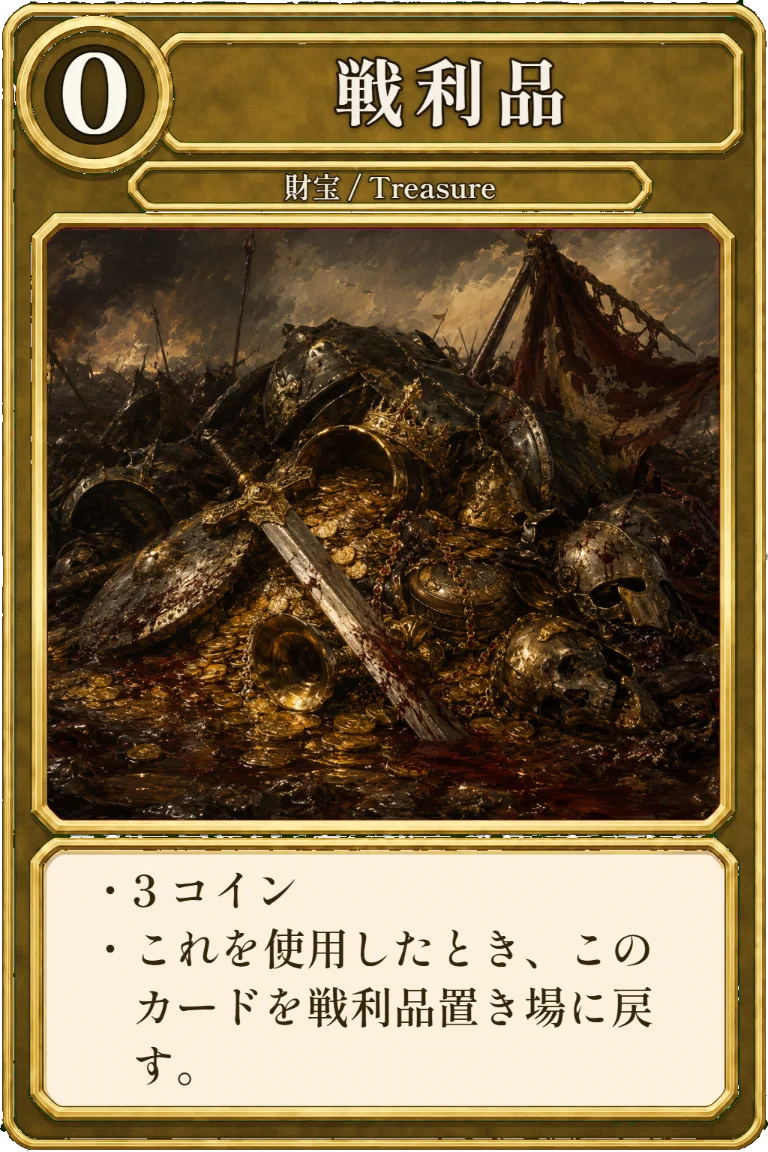
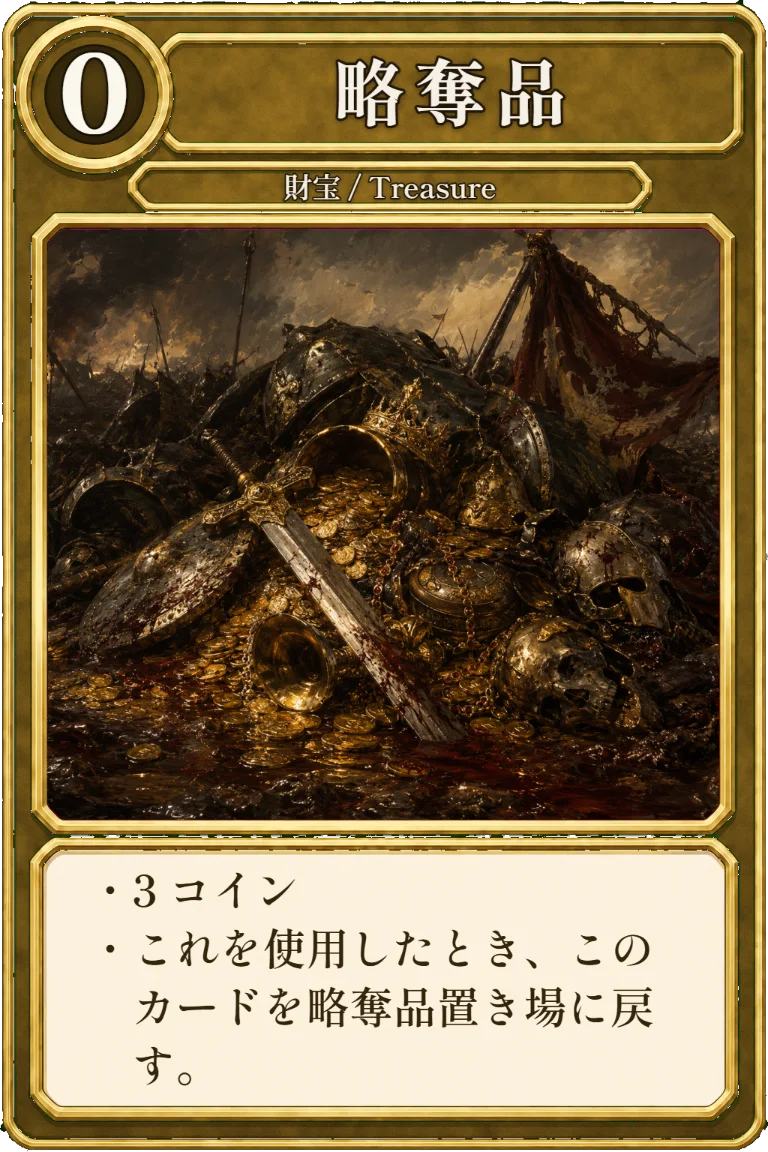
fix(darkages): spoils の日本語名を公式訳「略奪品」に直す（略奪の Loot＝「戦利品」と衝突するため）
PROGRESS §0-3 が「公式は『略奪品』だが…プロジェクト内一貫性を優先。**将来 Plunder/Loot を
入れる時に再考**」と明記して先送りしていた宿題。略奪(Plunder)の段階0研究で
**Loot の公式和名が「戦利品」**（日本語wiki `戦利品`＝種別「財宝-戦利品」）と確定したため、
同じ文字列が2つの別物を指す状態を避けて spoils を公式訳へ戻す。
ユーザー決定（2026-08-15）＝spoils を「略奪品」に改名する。

＝これは出荷済みの忠実性バグの修正でもある（公式は一貫して Spoils＝略奪品）。
mix-all で暗黒時代と略奪が同居すると「戦利品置き場」が2つ出るため、実害も出る予定だった。

- `js/cards.js`：`spoils` の name と、カード文中の「戦利品置き場」→「略奪品置き場」
  （spoils / marauder / bandit_camp / pillage の4枚）
- `js/engine.js`：プレイヤーに見えるログ文字列（使用・山へ戻す・獲得）
- `js/ui.js`：カード一覧の群見出し「非サプライ（略奪品・狂人・傭兵）」
- `js/cpu.js`・テスト・`docs/adding-cards.md`：spoils を指す記述を一括で追随
  （**現時点で「戦利品」は全部 spoils を指していた**＝Loot は未実装なので一括置換で安全）
- **webp 4枚を再生成**（spoils / marauder / bandit_camp / pillage。このPCのみ）＋ `sw.js` v69→v70

検証＝`npm test` 全40スイート緑（exit 0・整合性4765・不変条件12）／
`verify:e2e` 9/9（webp 505/0）。

Changed region(s): [[0.4375, 0.0312, 0.6562, 0.125], [0.4062, 0.8438, 0.5312, 0.9062]]

diff --git a/js/engine.js b/js/engine.js
@@ -23,7 +23,7 @@
   //   どちらも購入・汎用獲得・闇市場デッキの対象外＝NON_SUPPLY に入れて4系統から一括で除外する。
   const HEIRLOOMS = ['cursed_gold', 'goat', 'haunted_mirror', 'lucky_coin', 'magic_lamp', 'pasture', 'pouch'];
   const ZOMBIES = ['zombie_apprentice', 'zombie_mason', 'zombie_spy'];
-  const NON_SUPPLY = new Set([].concat(PRIZES, ['spoils', 'madman', 'mercenary'], TRAVELLER_GROWTH, ['horse'], NOCTURNE_NP, HEIRLOOMS, ZOMBIES)); // supply の数値キーだが「山」としては数えない/買えないもの（賞品＋暗黒時代の戦利品/狂人/傭兵＋冒険のトラベラー成長先＋移動動物園の馬＋夜想曲の精霊/願い/コウモリ/家宝/ゾンビ）
+  const NON_SUPPLY = new Set([].concat(PRIZES, ['spoils', 'madman', 'mercenary'], TRAVELLER_GROWTH, ['horse'], NOCTURNE_NP, HEIRLOOMS, ZOMBIES)); // supply の数値キーだが「山」としては数えない/買えないもの（賞品＋暗黒時代の略奪品/狂人/傭兵＋冒険のトラベラー成長先＋移動動物園の馬＋夜想曲の精霊/願い/コウモリ/家宝/ゾンビ）
   // 分割山（Split pile）：下段は上段が尽きるまで購入/獲得できない。正本は DOM.SPLIT_PILES（下段id→上段id）。
   const SPLIT_TOP = DOM.SPLIT_PILES || {};              // 下段id → 上段id（例 avanto→sauna）
   const SPLIT_BOTTOM = {}; Object.keys(SPLIT_TOP).forEach((b) => { SPLIT_BOTTOM[SPLIT_TOP[b]] = b; }); // 上段id → 下段id
@@ -118,7 +118,7 @@
   /* 戦闘計画(Battle Plan)＝**任意のサプライ山**を回せる（公式逐語：騎士・廃墟・城・サウナ/アヴァントも含む）。
      - 返すのは**山キー**（2段分割山は上段キーに正規化＝1山1エントリ）。
      - **サプライ山限定**（wiki 逐語：`As Battle Plan can only rotate Supply piles, it cannot rotate the Ferryman's pile`）
-       ＝賞品/戦利品/馬/トラベラー成長先/精霊 などの非サプライ山は返さない。
+       ＝賞品/略奪品/馬/トラベラー成長先/精霊 などの非サプライ山は返さない。
      - **普通の山も空の山も合法な選択肢**として返す（回しても何も起きないだけ＝公式FAQ
        `Many piles won't do anything meaningful if you do this`）。残枚数で絞らない。
      ※他5枚（触れ役/薬草集め/古地図/天幕/生徒）は自分の山を**名指し**するのでこの述語を使わない
@@ -620,7 +620,7 @@
   // 財宝の「使ったとき」効果だけを適用する（カードは動かさない）。
   //   1回目＝playTreasureCard（手札→場に移してから呼ぶ）。2回目＝冠/ティアラ/偽造通貨の再演
   //   （state.replay の 'treasure_replay' から runReplays が呼ぶ＝1回目の選択待ちが解決してから走る）。
-  //   自己移動する財宝（投資/戦利品/法貨/私掠船の廃棄）は removeOne ガードで2回目は自然に不発（lose track）。
+  //   自己移動する財宝（投資/略奪品/法貨/私掠船の廃棄）は removeOne ガードで2回目は自然に不発（lose track）。
   function applyTreasureEffect(state, pIndex, card) {
     const p = state.players[pIndex];
     const t = state.turn;
@@ -714,11 +714,11 @@
       if (p.deck.length === 0 && p.discard.length > 0) { reshuffleDeck(p); }
       if (p.deck.length > 0) state.pending = { type: 'crystal_ball', player: pIndex, card: p.deck[0] };
     }
-    // 暗黒時代：戦利品＝+$3（coin:3 で加算済み）。使ったら戦利品の山（非サプライ）へ戻す。
+    // 暗黒時代：略奪品＝+$3（coin:3 で加算済み）。使ったら略奪品の山（非サプライ）へ戻す。
     //   2回目のプレイ（冠/ティアラ/偽造通貨の再演）では既に山へ戻っている＝返却は不発（lose track・コインは入る）。
     if (card === 'spoils') {
-      if (removeOne(p.inPlay, 'spoils')) { state.supply.spoils = (state.supply.spoils || 0) + 1; log(state, `${p.name} は戦利品を使った（+$3）→山へ戻した。`); }
-      else log(state, `${p.name} は戦利品をもう一度使った（+$3）。`);
+      if (removeOne(p.inPlay, 'spoils')) { state.supply.spoils = (state.supply.spoils || 0) + 1; log(state, `${p.name} は略奪品を使った（+$3）→山へ戻した。`); }
+      else log(state, `${p.name} は略奪品をもう一度使った（+$3）。`);
     }
     // 冒険：掘出物＝+$2（coin:2 で加算済み）。プレイしたとき金貨1枚と銅貨1枚を獲得。
     if (card === 'treasure_trove') {
@@ -1005,7 +1005,7 @@
     // 廃墟(Ruins)山は supply の数値キーを持たず state.ruins（実カード配列）で管理する（createInitialState で生成）。
     //   ※'ruins' の山キーはカタログに無い＝supply に持つと CPU/UI の supply 走査が C()['ruins'] で落ちるため。
     //   騎士(knights)はカタログ有り・王国枠＝supply.knights（10枚・購入可）を kingdom.forEach で既に持つ。
-    //   非サプライ山：戦利品(山賊の宿営地/略奪者/略奪)=15固定、狂人(隠遁者)=10、傭兵(浮浪児)=10。
+    //   非サプライ山：略奪品(山賊の宿営地/略奪者/略奪)=15固定、狂人(隠遁者)=10、傭兵(浮浪児)=10。
     if (kingdom.some((k) => ['bandit_camp', 'marauder', 'pillage'].includes(k))) supply.spoils = 15;
     if (kingdom.includes('hermit')) supply.madman = 10;
     if (kingdom.includes('urchin')) supply.mercenary = 10;
@@ -1013,7 +1013,7 @@
     //   購入不可（canBuyCard）・3山終了に数えない（emptyPileCount）・獲得は「場から捨てる時の交換」のみ。
     if (kingdom.includes('page')) ['treasure_hunter', 'warrior', 'hero', 'champion'].forEach((id) => (supply[id] = 5));
     if (kingdom.includes('peasant')) ['soldier', 'fugitive', 'disciple', 'teacher'].forEach((id) => (supply[id] = 5));
-    // 夜想曲：非サプライ山（**枚数は人数によらない**＝賞品/戦利品と同じ）。正本＝docs/research/nocturne_rules.md §6-2。
+    // 夜想曲：非サプライ山（**枚数は人数によらない**＝賞品/略奪品と同じ）。正本＝docs/research/nocturne_rules.md §6-2。
     //   ウィル・オ・ウィスプは「幸運(Fate)が1枚でもあれば」置く（沼の恵みの獲得先）／悪魔祓いは精霊3山すべてを要求する。
     if (kingdom.some((k) => DOM.isType(k, 'fate')) || kingdom.includes('exorcist')) supply.will_o_wisp = 12;
     if (kingdom.some((k) => ['devils_workshop', 'tormentor', 'exorcist'].includes(k))) supply.imp = 13;
@@ -1796,7 +1796,7 @@
     });
   }
   // 「サプライから追放できる」候補（＝各山の一番上）。engine拒否・CPU候補・UIフィルタが同じ関数を見る。
-  //   非サプライ山（馬/賞品/戦利品/トラベラー成長先）は「サプライにある」ではない＝対象外。
+  //   非サプライ山（馬/賞品/略奪品/トラベラー成長先）は「サプライにある」ではない＝対象外。
   //   ロック中の分割山の下段も対象外（availableInSupply）。混合山は一番上の実カードだけを候補に足す。
   function exilableSupplyIds(state) {
     const out = [];
@@ -1999,7 +1999,7 @@
     trashCard(state, victim, trashed);
     log(state, `${v.name} は山札の上の「${C()[trashed].name}」を廃棄した。`);
     const ref = costOf(state, trashed);
-    // 非サプライ（賞品/トラベラー成長先/戦利品等）は贈与対象にしない（交換/専用機構でのみ得るカード）。
+    // 非サプライ（賞品/トラベラー成長先/略奪品等）は贈与対象にしない（交換/専用機構でのみ得るカード）。
     // コスト一致は3成分（銅貨$0 に 大君主$0+負債8 を押し付けられない＝公式）。
     if (anyGainable(state, (id) => costExact(state, id, ref.coin, ref.pot, ref.debt))) {
       state.pending = { type: 'swindler', stage: 'gain', player: source, source, victim, cost: ref.coin, pot: ref.pot, debt: ref.debt, queue };
@@ -3750,7 +3750,7 @@
   }
   function costLE(a, b) { return a.coin <= b.coin && a.pot <= b.pot && a.debt <= b.debt; }
   function costLT(a, b) { return costLE(a, b) && (a.coin < b.coin || a.pot < b.pot || a.debt < b.debt); }
-  // すべての「サプライから獲得する」効果の土台＝非サプライ（賞品/戦利品/狂人/傭兵/トラベラー成長先）・
+  // すべての「サプライから獲得する」効果の土台＝非サプライ（賞品/略奪品/狂人/傭兵/トラベラー成長先）・
   //   ロック中の分割山下段・在庫切れ・カタログ非在 を弾く。
   function gainableBase(state, id) {
     return !!C()[id] && !NON_SUPPLY.has(id) && !splitLocked(state, id) && (state.supply[id] || 0) > 0;
@@ -4929,9 +4929,9 @@
           ? { type: 'altar', stage: 'trash', player: pi }
           : (anyGainable(state, (id) => costUpTo(state, id, 5)) ? { type: 'altar', stage: 'gain', player: pi } : null);
         break;
-      case 'bandit_camp': // +1カード +2アクション、戦利品を1枚獲得（非サプライ）
+      case 'bandit_camp': // +1カード +2アクション、略奪品を1枚獲得（非サプライ）
         draw(state, pi, 1); addActions(t, 2);
-        if (gain(state, pi, 'spoils', 'discard')) log(state, `${p.name} は山賊の宿営地で戦利品を獲得した。`);
+        if (gain(state, pi, 'spoils', 'discard')) log(state, `${p.name} は山賊の宿営地で略奪品を獲得した。`);
         break;
       case 'hunting_grounds': // +4カード（on-trashは公領or屋敷3＝triggerOnTrash）
         draw(state, pi, 4);
@@ -4968,8 +4968,8 @@
       case 'procession': // 手札の非持続アクションを2回使う→廃棄→ちょうど+$1高いアクションを獲得（使わなくてよい）
         if (p.hand.some((c) => DOM.isType(c, 'action') && !DOM.isType(c, 'duration') && canPlayHandCard(state, pi, c))) state.pending = { type: 'procession', player: pi };
         break;
-      case 'marauder': { // 戦利品を獲得（自分）＋各相手が廃墟を獲得（アタック）
-        if (gain(state, pi, 'spoils', 'discard')) log(state, `${p.name} は略奪者で戦利品を獲得した。`);
+      case 'marauder': { // 略奪品を獲得（自分）＋各相手が廃墟を獲得（アタック）
+        if (gain(state, pi, 'spoils', 'discard')) log(state, `${p.name} は略奪者で略奪品を獲得した。`);
         const q = []; for (let k = 1; k < state.players.length; k++) q.push((pi + k) % state.players.length);
         marauderEnterVictim(state, pi, q);
         break;
@@ -4980,11 +4980,11 @@
         cultistEnterVictim(state, pi, q);
         break;
       }
-      case 'pillage': { // これを廃棄→戦利品2枚＋手札5枚以上の各相手が手札公開→使用者が1枚捨てさせる
+      case 'pillage': { // これを廃棄→略奪品2枚＋手札5枚以上の各相手が手札公開→使用者が1枚捨てさせる
         if (!takeSelf(state, pi, 'pillage')) break; // 場に無い（玉座2回目/命令で動かさずに使用）＝If you did が偽
         trashCard(state, pi, 'pillage');
         let g = 0; for (let i = 0; i < 2; i++) if (gain(state, pi, 'spoils', 'discard')) g++;
-        if (g) log(state, `${p.name} は略奪で戦利品 ${g}枚 を獲得した。`);
+        if (g) log(state, `${p.name} は略奪で略奪品 ${g}枚 を獲得した。`);
         const q = []; for (let k = 1; k < state.players.length; k++) q.push((pi + k) % state.players.length);
         pillageEnterVictim(state, pi, q);
         break;
@@ -6853,7 +6853,7 @@
   }
   // 帝国：あるカードが「空になったサプライ山」に由来するか（塔の得点用）。
   function isFromEmptySupplyPile(state, cardId) {
-    if (NON_SUPPLY.has(cardId)) return false; // 賞品/成長先/戦利品/狂人/傭兵 は非サプライ
+    if (NON_SUPPLY.has(cardId)) return false; // 賞品/成長先/略奪品/狂人/傭兵 は非サプライ
     // 混合山（廃墟/騎士/城）の中身は個別の supply キーを持たない＝集約キーで空判定
     if ((DOM.POOLS.ruins || []).indexOf(cardId) >= 0) return Array.isArray(state.ruins) && state.ruins.length === 0;
     if ((DOM.POOLS.knights || []).indexOf(cardId) >= 0) return (state.supply.knights || 0) <= 0;
@@ -9750,7 +9750,7 @@
   /* 植民（Populate）＝獲得元になる「アクションのサプライ山」の一覧（山キー）。
      - 山の種別で判定する（分割山は**上段カード**の種別＝上段が尽きていても下段を獲得する）。
      - 混合山：廃墟/騎士はアクションの山（一番上の1枚を獲得）／城は勝利点の山＝対象外。
-     - 非サプライ山（馬/賞品/戦利品/トラベラー成長先）は対象外。空の山は対象外。 */
+     - 非サプライ山（馬/賞品/略奪品/トラベラー成長先）は対象外。空の山は対象外。 */
   function populatePiles(state) {
     const out = [];
     Object.keys(state.supply).forEach((id) => {
@@ -10277,7 +10277,7 @@
       }
       if (r.label === 'counterfeit_trash') {
         // 暗黒時代：偽造通貨＝2回のプレイが終わった後、その財宝を場から廃棄する。
-        //   対象が自己移動していれば（戦利品が山へ戻る等）廃棄は不発（lose track）。
+        //   対象が自己移動していれば（略奪品が山へ戻る等）廃棄は不発（lose track）。
         const p = state.players[r.player];
         if (removeOne(p.inPlay, r.card)) { trashCard(state, r.player, r.card); log(state, `${p.name} は偽造通貨で「${C()[r.card].name}」を廃棄した。`); }
         continue;
@@ -11844,7 +11844,7 @@
         const pd = state.pending;
         if (!pd || pd.type !== 'lurker' || pd.stage !== 'trash') return state;
         const card = action.card;
-        // 非サプライ（賞品/トラベラー成長先/戦利品）とロック中の分割山下段は「サプライの山」ではない＝対象外。
+        // 非サプライ（賞品/トラベラー成長先/略奪品）とロック中の分割山下段は「サプライの山」ではない＝対象外。
         if (!gainableBase(state, card) || !isTypeSupply(state, card, 'action')) return state;
         const trashed = trashFromSupplyPile(state, pd.player, card); // 混合山は一番上の実カード
         if (!trashed) return state;
@@ -12688,7 +12688,7 @@
           //   state.replay に順に積む（行進の procession2/procession_finish と同じ形）。
           //   これで1回目/2回目が立てる選択待ちが解決してから廃棄が走る。
           log(state, `${p.name} は偽造通貨で「${C()[card].name}」を2回使う。`);
-          playTreasureCard(state, pd.player, card); // 1回目（移動＋効果。戦利品は山へ戻る）
+          playTreasureCard(state, pd.player, card); // 1回目（移動＋効果。略奪品は山へ戻る）
           state.replay = state.replay || [];
           state.replay.push({ player: pd.player, card, label: 'treasure_replay' });  // 2回目（効果のみ）
           state.replay.push({ player: pd.player, card, label: 'counterfeit_trash' }); // 2回のプレイ後に廃棄
@@ -13639,7 +13639,7 @@
         const card = action.card; // null = 公開しない
         if (card != null && p.hand.indexOf(card) >= 0 && isTreasureFor(state, card)) {
           reveal(state, pd.player, [card], '造幣所：財宝を公開');
-          // 非サプライ（戦利品/宝冠 等）のコピーは造幣所では獲得できない（サプライに山が無い＝gainableBase）。
+          // 非サプライ（略奪品/宝冠 等）のコピーは造幣所では獲得できない（サプライに山が無い＝gainableBase）。
           if (gainableBase(state, card)) { gain(state, pd.player, card, 'discard'); log(state, `${p.name} は造幣所で「${C()[card].name}」を獲得した。`); }
         }
         state.pending = null;
@@ -13930,8 +13930,8 @@
             removeOne(player.hand, 'province'); player.discard.push('province');
             reveal(state, pd.player, ['province'], '馬上槍試合で属州を公開');
             log(state, `${player.name} は属州を公開・捨てた（馬上槍試合）。`);
-            // 賞品は PRIZES（5種）だけ＝NON_SUPPLY（戦利品/狂人/傭兵/トラベラー成長先も含む）で数えてはいけない。
-            //   mix で戦利品等が同居すると「賞品を獲得」の pending が開いたまま閉じない（CPU無限ループ／人間が詰む）。
+            // 賞品は PRIZES（5種）だけ＝NON_SUPPLY（略奪品/狂人/傭兵/トラベラー成長先も含む）で数えてはいけない。
+            //   mix で略奪品等が同居すると「賞品を獲得」の pending が開いたまま閉じない（CPU無限ループ／人間が詰む）。
             if (anyGainable(state, (id) => PRIZE_SET.has(id) || id === 'duchy')) {
               state.pending = { type: 'tournament', stage: 'prize', player: pd.player, source: pd.source };
             } else {

diff --git a/js/cards.js b/js/cards.js
@@ -491,7 +491,7 @@
     death_cart: { id: 'death_cart', name: '死の荷車', cost: 4, types: ['action', 'looter'],
                  text: 'これか手札のアクションカード1枚を廃棄してもよい。廃棄したなら +5 コイン。\n————\nこれを獲得したとき、廃墟2枚を獲得する。' },
     marauder: { id: 'marauder', name: '略奪者', cost: 4, types: ['action', 'attack', 'looter'],
-                 text: '戦利品置き場から戦利品1枚を獲得する。\n他のプレイヤーは各自、廃墟1枚を獲得する。' },
+                 text: '略奪品置き場から略奪品1枚を獲得する。\n他のプレイヤーは各自、廃墟1枚を獲得する。' },
     feodum: { id: 'feodum', name: '封土', cost: 4, types: ['victory'],
                  text: '（勝利点）\n所持している銀貨3枚につき 1 勝利点（端数切り捨て）。\nこれを廃棄したとき、銀貨3枚を獲得する。' },
 
@@ -527,7 +527,7 @@
     junk_dealer: { id: 'junk_dealer', name: '屑屋', cost: 5, types: ['action'],
                  text: '+1 カード\n+1 アクション\n+1 コイン\n手札のカード1枚を廃棄する。' },
     bandit_camp: { id: 'bandit_camp', name: '山賊の宿営地', cost: 5, types: ['action'],
-                 text: '+1 カード\n+2 アクション\n戦利品置き場から戦利品1枚を獲得する。' },
+                 text: '+1 カード\n+2 アクション\n略奪品置き場から略奪品1枚を獲得する。' },
     rebuild: { id: 'rebuild', name: '建て直し', cost: 5, types: ['action'],
                  text: '+1 アクション\nカード名を1つ指定する。指定したカード以外の勝利点カードが出るまで、自分の山札の上からカードを公開する。\n公開した他のカードを捨て札にし、その勝利点カードを廃棄する。\nそのコストより $3 多いコストまでの勝利点カード1枚を獲得する。' },
     catacombs: { id: 'catacombs', name: '地下墓所', cost: 5, types: ['action'],
@@ -543,7 +543,7 @@
     rogue: { id: 'rogue', name: '盗賊', cost: 5, types: ['action', 'attack'],
                  text: '+2 コイン\n廃棄置き場にコスト3～6のカードがあれば、その中から1枚を獲得する。\n無ければ、他のプレイヤーは各自、自分の山札の上から2枚を公開し、その中のコスト3～6のカード1枚を廃棄し、残りを捨て札にする。' },
     pillage: { id: 'pillage', name: '略奪', cost: 5, types: ['action', 'attack'],
-                 text: 'これを廃棄する。そうしたら、戦利品置き場から戦利品2枚を獲得し、手札が5枚以上の他のプレイヤーは各自、手札を公開し、あなたが選んだカード1枚を捨て札にする。' },
+                 text: 'これを廃棄する。そうしたら、略奪品置き場から略奪品2枚を獲得し、手札が5枚以上の他のプレイヤーは各自、手札を公開し、あなたが選んだカード1枚を捨て札にする。' },
     cultist: { id: 'cultist', name: '狂信者', cost: 5, types: ['action', 'attack', 'looter'],
                  text: '+2 カード\n他のプレイヤーは各自、廃墟1枚を獲得する。\n手札の狂信者1枚を使用してよい。\nこれを廃棄したとき、+3 カード。' },
     counterfeit: { id: 'counterfeit', name: '偽造通貨', cost: 5, types: ['treasure'], coin: 1,
@@ -597,9 +597,9 @@
     overgrown_estate: { id: 'overgrown_estate', name: '草茂る屋敷', cost: 1, types: ['victory', 'shelter'],
                  text: '0 勝利点\n————\nこのカードを廃棄したとき、+1 カードを引く。' },
 
-    // ===== 非サプライ（戦利品/狂人/傭兵・段階1）=====
-    spoils: { id: 'spoils', name: '戦利品', cost: 0, types: ['treasure'], coin: 3,
-                 text: '3 コイン\nこれを使用したとき、このカードを戦利品置き場に戻す。' },
+    // ===== 非サプライ（略奪品/狂人/傭兵・段階1）=====
+    spoils: { id: 'spoils', name: '略奪品', cost: 0, types: ['treasure'], coin: 3,
+                 text: '3 コイン\nこれを使用したとき、このカードを略奪品置き場に戻す。' },
     madman: { id: 'madman', name: '狂人', cost: 0, types: ['action'],
                  text: '+2 アクション\nこのカードを狂人置き場に戻す。そうしたら、あなたの手札1枚につき +1 カード。' },
     mercenary: { id: 'mercenary', name: '傭兵', cost: 0, types: ['action', 'attack'],
@@ -901,7 +901,7 @@
         4. 追跡者(tracker)＝2022年の**機能**エラッタ（「これが場にある間」→「このターン」）を反映。
         5. 2021年印刷で削除された "from its pile"（悪魔の工房／迫害者／レプラコーン／沼の恵み 等）は落とす＝機能差ゼロ。
        家宝を持つ王国カードは末尾に「（家宝：X）」を付ける（実カードでは枠外の帯なので区切り線は入れない）。
-       非サプライ札の "(This is not in the Supply.)" は既存カタログ（馬/戦利品/狂人/賞品）と同じく書かない。 */
+       非サプライ札の "(This is not in the Supply.)" は既存カタログ（馬/略奪品/狂人/賞品）と同じく書かない。 */
     bard:            { id: 'bard', name: '詩人', cost: 4, types: ['action', 'fate'],
                  text: '+2 コイン\n祝福を1つ受ける。' },
     blessed_village: { id: 'blessed_village', name: '恵みの村', cost: 4, types: ['action', 'fate'],
@@ -1251,7 +1251,7 @@
   DOM.POOLS.knights = ['dame_anna', 'dame_josephine', 'dame_molly', 'dame_natalie', 'dame_sylvia', 'sir_bailey', 'sir_destry', 'sir_martin', 'sir_michael', 'sir_vander'];   // 騎士の混合山の中身（非サプライ）
   DOM.POOLS.ruins = ['abandoned_mine', 'ruined_library', 'ruined_market', 'ruined_village', 'survivors'];       // 廃墟（特殊供給）
   DOM.POOLS.shelters = ['hovel', 'necropolis', 'overgrown_estate']; // 避難所（開始デッキ置換）
-  DOM.POOLS.darkages_np = ['spoils', 'madman', 'mercenary']; // 戦利品/狂人/傭兵（非サプライ）
+  DOM.POOLS.darkages_np = ['spoils', 'madman', 'mercenary']; // 略奪品/狂人/傭兵（非サプライ）
   // 冒険（Adventures）＝王国30種（抽選母集団。「冒険セット」固定10種と「冒険から」ランダムが参照。page/peasant はサプライ）。
   DOM.POOLS.adventures = ['coin_of_the_realm', 'page', 'peasant', 'ratcatcher', 'raze', 'amulet', 'caravan_guard', 'dungeon', 'gear', 'guide', 'duplicate', 'magpie', 'messenger', 'miser', 'port', 'ranger', 'transmogrify', 'artificer', 'bridge_troll', 'distant_lands', 'giant', 'haunted_woods', 'lost_city', 'relic', 'royal_carriage', 'storyteller', 'swamp_hag', 'treasure_trove', 'wine_merchant', 'hireling'];
   // 冒険：トラベラーの成長先8種＝非サプライ（page/peasant の交換でのみ得る・各5枚）。賞品(prizes)と同型で

diff --git a/js/cpu.js b/js/cpu.js
@@ -113,7 +113,7 @@
   // 収穫祭：賞品(Prize)は馬上槍試合でのみ獲得する非サプライ札＝汎用の獲得効果(bestGain/bestGainExact)は
   // 絶対に賞品を選ばない（豊穣の角等で$0賞品を不正獲得しない／賞品を拒否する reducer と噛み合って無限ループしない）。
   const PRIZE_SET = new Set(['bag_of_gold', 'diadem', 'followers', 'princess', 'trusty_steed']);
-  // 暗黒時代：戦利品/狂人/傭兵も非サプライ＝汎用獲得(bestGain等)や獲得系pendingから除外する
+  // 暗黒時代：略奪品/狂人/傭兵も非サプライ＝汎用獲得(bestGain等)や獲得系pendingから除外する
   //（engine の NON_SUPPLY 拒否と噛み合い、提案し続けて無限ループするのを防ぐ）。
   // 冒険：トラベラーの成長先8種も非サプライ（page/peasant の交換でのみ得る）＝汎用獲得や獲得系pendingから除外。
   // 移動動物園：馬（horse）も非サプライ＝「馬を獲得する」効果でのみ得る（購入も汎用獲得もできない）。
@@ -313,7 +313,7 @@
     // 暗黒時代：非ターミナル（+アクション付き）
     if (has('fortress')) return 'fortress';               // +1カード+2アクション（廃棄で手札に戻る）
     if (has('necropolis')) return 'necropolis';           // +2アクション（避難所）
-    if (has('bandit_camp')) return 'bandit_camp';         // +1カード+2アクション＋戦利品
+    if (has('bandit_camp')) return 'bandit_camp';         // +1カード+2アクション＋略奪品
     if (has('junk_dealer')) return 'junk_dealer';         // +1カード+1アクション+$1＋圧縮
     if (has('mystic')) return 'mystic';                   // +1アクション+$2＋当てれば手札へ
     if (has('vagrant')) return 'vagrant';                 // +1カード+1アクション
@@ -499,8 +499,8 @@
     if (has('priest')) return 'priest';                   // +2コイン＋以後の廃棄で+2コイン（圧縮と併せて強い）
     // 暗黒時代：ターミナル（アタック＞ドロー＞trash-to-gain＞その他）
     if (has('cultist')) return 'cultist';                   // +2カード＋廃墟配布＋連鎖（強力）
-    if (has('marauder')) return 'marauder';                 // 戦利品＋廃墟配布
-    if (has('pillage')) return 'pillage';                   // 廃棄→戦利品2枚＋手札を捨てさせる
+    if (has('marauder')) return 'marauder';                 // 略奪品＋廃墟配布
+    if (has('pillage')) return 'pillage';                   // 廃棄→略奪品2枚＋手札を捨てさせる
     if (has('rogue')) return 'rogue';                       // +$2＋廃棄置き場回収 or 相手の$3-6廃棄
     // 騎士（ターミナル種）＝手札にあれば使う（混合山アタック）
     for (const kn of ['sir_destry', 'dame_sylvia', 'sir_martin', 'dame_natalie', 'sir_michael', 'dame_anna', 'dame_josephine', 'sir_vander']) { if (has(kn)) return kn; }
@@ -736,7 +736,7 @@
     if (after('province') <= 0) return true;
     // 繁栄：植民地を使うゲームは植民地が尽きても終了する（engine の isGameOver と同じ条件を見る）。
     if (state.supply.colony != null && after('colony') <= 0) return true;
-    /* 3山終了は **engine の emptyPileCount が正本**（非サプライ＝賞品/戦利品/成長先を数えない・
+    /* 3山終了は **engine の emptyPileCount が正本**（非サプライ＝賞品/略奪品/成長先を数えない・
        分割山は上下で1山・廃墟の混合山を state.ruins で数える）。ここで素朴に supply のキーを数えると
        非サプライ山や分割山下段まで「空」に数えてしまい、engine はまだ続くのに CPU だけ「買うと終わる」と
        誤判定して終盤ずっと買い控える（敵対レビューで実測）。 */

diff --git a/js/ui.js b/js/ui.js
@@ -148,7 +148,7 @@
   function effCost(state, id) { return (state && E() && E().cardCost) ? E().cardCost(state, id) : DOM.CARDS[id].cost; }
   /* ---------- mix-all 硬化：獲得候補の述語は **engine の正本** を見る ----------
      engine が拒否する札をモーダルのチップに出すと人間が詰む（選んでも state が変わらない）。
-     コスト比較は coin/potion/debt の成分別＋非サプライ（賞品/戦利品/成長先）とロック中の分割山下段を除外。
+     コスト比較は coin/potion/debt の成分別＋非サプライ（賞品/略奪品/成長先）とロック中の分割山下段を除外。
      spec = { pot, debt }（省略時0）＝廃棄/購入した札のポーション・負債成分を引き継ぐときに渡す（pending に焼き込み済み）。 */
   const canBase = (state, id) => !E() || !E().gainableBase || E().gainableBase(state, id);
   /* 「サプライから獲得/廃棄するカードの種別」＝混合山（廃墟/騎士/城/同盟の分割山）は**一番上の実カード**で判定。
@@ -920,7 +920,7 @@
     addC('騎士（暗黒時代）', P.knights ? byCost(P.knights) : null);
     addC('廃墟（暗黒時代）', P.ruins ? byCost(P.ruins) : null);
     addC('避難所（暗黒時代）', P.shelters ? byCost(P.shelters) : null);
-    addC('非サプライ（戦利品・狂人・傭兵）', P.darkages_np ? byCost(P.darkages_np) : null);
+    addC('非サプライ（略奪品・狂人・傭兵）', P.darkages_np ? byCost(P.darkages_np) : null);
     addC('王国カード（冒険）', P.adventures ? byCost(P.adventures) : null);
     addC('トラベラー成長先（冒険・非サプライ）', P.travellers ? byCost(P.travellers) : null);
     addC('王国カード（帝国）', P.empires ? byCost(P.empires) : null);
@@ -1299,7 +1299,7 @@
       ? h('div', { class: 'supply-section' }, h('div', { class: 'sup-title' }, '廃墟の山（獲得専用）'),
           h('div', { class: 'supply-grid small' }, ruinsPileEl(state)))
       : null;
-    // 非サプライの数値キー山（購入不可＝交換/専用獲得のみ）：冒険のトラベラー成長先・収穫祭の賞品・暗黒時代の戦利品/狂人/傭兵。
+    // 非サプライの数値キー山（購入不可＝交換/専用獲得のみ）：冒険のトラベラー成長先・収穫祭の賞品・暗黒時代の略奪品/狂人/傭兵。
     //   王国枠に無く供給されている（state.supply に在る）ものを表示して、残枚数を可視化する。
     //   夜想曲の精霊3種／願い／コウモリ、移動動物園の馬も同じ扱い（残枚数が見えないと戦略が立たない）。
     const nonSupplyIds = [].concat((DOM.POOLS && DOM.POOLS.travellers) || [], (DOM.POOLS && DOM.POOLS.prizes) || [],
@@ -4334,7 +4334,7 @@
     const extra = Object.keys(state.supply).filter((id) => DOM.CARDS[id] && order.indexOf(id) < 0);
     const all = order.concat(extra);
     // 安全網：呼び出し側の filter に書き漏れがあっても、**engine が獲得を拒否する山はチップに出さない**
-    //   （非サプライ＝賞品/戦利品/成長先・ロック中の分割山下段・在庫切れ）＝人間が詰む選択肢を1か所で吸収する。
+    //   （非サプライ＝賞品/略奪品/成長先・ロック中の分割山下段・在庫切れ）＝人間が詰む選択肢を1か所で吸収する。
     //   allowEmpty＝「山が空でもよい」用途（教師の山トークン置き先＝公式は空の山にも置ける）。
     const elig = all.filter((id) => filter(id) &&
       (allowEmpty ? (state.supply[id] != null) : ((state.supply[id] || 0) > 0 && canBase(state, id))));

diff --git a/test/invariants.test.js b/test/invariants.test.js
@@ -128,7 +128,7 @@ const ADVERSARIAL = [
   ['crown', 'charm', 'capital', 'plunder', 'encampment', 'fortune', 'gladiator', 'castles', 'overlord', 'village'], // 帝国：冠の「財宝を2回使う」×選択待ちを立てる財宝(御守り)・+購入/VPを持つ財宝(元手/大金/鹵獲品)＋負債＋分割山＋城の混合山
   ['crown', 'overlord', 'throne_room', 'kings_court', 'village', 'market', 'smithy', 'moat', 'militia', 'workshop'], // 帝国：命令(大君主)の再演は選び直さない×玉座/王の宮廷/冠のネスト
   ['tiara', 'crystal_ball', 'anvil', 'investment', 'charlatan', 'bank', 'collection', 'monument', 'village', 'market'], // 繁栄：ティアラの2回目が pending 財宝(水晶玉/金床/投資/ペテン師)の選択・アタックを取りこぼさない
-  ['counterfeit', 'bandit_camp', 'marauder', 'band_of_misfits', 'procession', 'village', 'market', 'smithy', 'moat', 'militia'], // 暗黒時代：偽造通貨の2回プレイ→廃棄（戦利品の自己移動＝lose track）＋命令(はみだし者)×行進の再演
+  ['counterfeit', 'bandit_camp', 'marauder', 'band_of_misfits', 'procession', 'village', 'market', 'smithy', 'moat', 'militia'], // 暗黒時代：偽造通貨の2回プレイ→廃棄（略奪品の自己移動＝lose track）＋命令(はみだし者)×行進の再演
   // E8：命令（大君主/はみだし者）× 自己移動札（祝宴/鉱山の村/宝の地図/島/倒壊/陣地/農家の市場）＝自己移動は失敗し命令カードも動かない
   ['overlord', 'band_of_misfits', 'feast', 'mining_village', 'treasure_map', 'island', 'raze', 'encampment', 'farmers_market', 'throne_room'],
   // E8：命令（船長/王子）× 自己移動札＋Reserve（酒場マットへの自己移動）＋玉座/王の宮廷のネスト
@@ -460,7 +460,7 @@ console.log('=== カード保存則: mix-all（拡張を自由に混ぜる・分
   }
   // 3) 「汎用獲得札 × 危険な山」を強制的に同居させた王国（fuzz の抽選待ちにしない）。
   const FORCED = [
-    // 工房/鉄工所/職人/祝宴（≤$N獲得）× 賞品(馬上槍試合)・戦利品(山賊の宿営地)・ポーション費用(ブドウ園)・負債(技術者)
+    // 工房/鉄工所/職人/祝宴（≤$N獲得）× 賞品(馬上槍試合)・略奪品(山賊の宿営地)・ポーション費用(ブドウ園)・負債(技術者)
     ['workshop', 'ironworks', 'artisan', 'feast', 'tournament', 'bandit_camp', 'vineyard', 'potion', 'engineer', 'village'],
     // 改良/リメイク/溶鉱炉/開発/農地（ちょうど$N）× ポーション費用・負債・分割山下段・混合山
     ['upgrade', 'remake', 'forge', 'develop', 'farmland', 'vineyard', 'potion', 'overlord', 'sauna', 'avanto'],

diff --git a/test/empires.test.js b/test/empires.test.js
@@ -1056,7 +1056,7 @@ const K8 = (extra) => [extra, 'village', 'smithy', 'market', 'workshop', 'moat',
   s = reduce(s, { type: 'PLAY_ACTION', card: 'overlord' });
   s = reduce(s, { type: 'OVERLORD_PLAY', card: 'pillage' });
   ok(count(s.trash, 'pillage') === 0 && count(s.trash, 'overlord') === 0, '大君主×略奪：どちらも廃棄されない');
-  ok(count(s.players[0].discard, 'spoils') === 0 && !s.pending, '大君主×略奪：戦利品もアタックも起きない（If you did が偽）');
+  ok(count(s.players[0].discard, 'spoils') === 0 && !s.pending, '大君主×略奪：略奪品もアタックも起きない（If you did が偽）');
   ok(tdiff(t0, tally(s)).length === 0, '保存則（大君主×略奪）');
 }
 { // 倒壊：「これ」は選べない・手札からのみ廃棄。場に本物の倒壊があっても誤爆しない

diff --git a/sw.js b/sw.js
@@ -7,7 +7,7 @@
    - クロスオリジン（Google Fonts / WebSocket）は触らない。
    バージョンを上げると activate で旧キャッシュを全部捨てる。
    ============================================================ */
-const VERSION = 'v69';
+const VERSION = 'v70';
 const CACHE = 'dominion-' + VERSION;
 
 // オフラインに最低限必要なファイル（盤面サムネ含む・約1MB）

diff --git a/docs/adding-cards.md b/docs/adding-cards.md
@@ -62,7 +62,7 @@ case 'market': draw(state,pi,1); t.actions+=1; t.buys+=1; t.coins+=1; break;   /
 **終了判定**: `emptyPileCount` は **supply全キー**を数える／`isGameOver`（province<=0 or 空山>=3 or 150手番安全網）。
 
 **特殊山の足し方**:
-- **均質な非サプライ山**（戦利品/狂人/傭兵/賞品Prizes各1）＝ `supply` に数値キーで足す（保存則tallyは自動計上＝テスト改変不要）。ただし **(a) `emptyPileCount` から `NON_SUPPLY` set で除外**（3山終了に混ぜない）、**(b) `canBuyCard` で購入不可**。
+- **均質な非サプライ山**（略奪品/狂人/傭兵/賞品Prizes各1）＝ `supply` に数値キーで足す（保存則tallyは自動計上＝テスト改変不要）。ただし **(a) `emptyPileCount` から `NON_SUPPLY` set で除外**（3山終了に混ぜない）、**(b) `canBuyCard` で購入不可**。
 - **混合山**（廃墟Ruins/騎士Knights＝中身と順序が違う）＝ `state.ruins`/`state.knights` を**top-level id配列**（blackMarket型）。生成は createInitialState で shuffle、獲得は `state.ruins.shift()`。**`test/invariants.test.js` の tally に `(s.ruins||[]).forEach(add)` を追加必須**（漏れると保存則が誤検知で赤）。maskStateFor で伏せる、`emptyPileCount` に `+(ruins.length===0?1:0)` を明示加算。
 - **避難所Shelters**＝供給山でなく**開始デッキ置換**（createInitialState の `for(...) start.push('estate')` を条件で `hovel/necropolis/overgrown_estate` に）。deck開始なので保存則自動。DOM.CARDS定義・GAIN_ORDER・POOL所属・マスクは別途。
 - 非サプライ・非プールの新カードを足すなら integrity の base 除外リスト（copper/silver/gold/estate/duchy/province/curse/potion/platinum/colony）に追記が要る場合あり。
